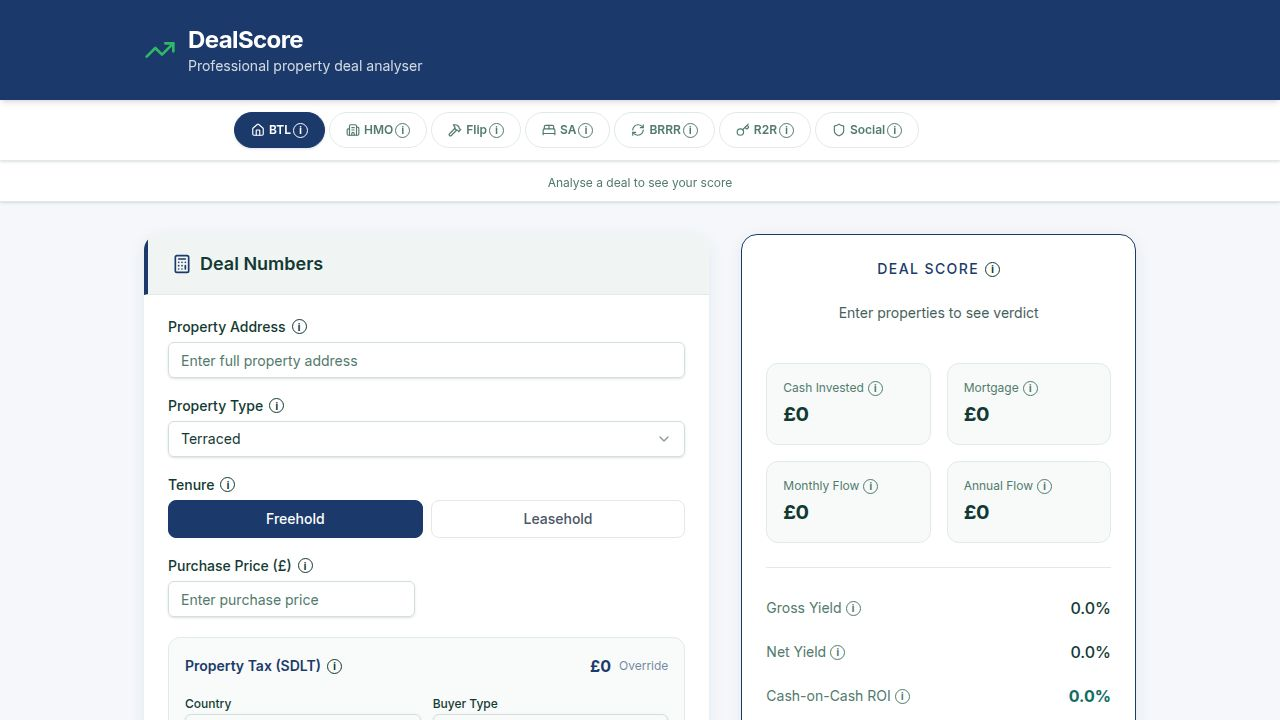
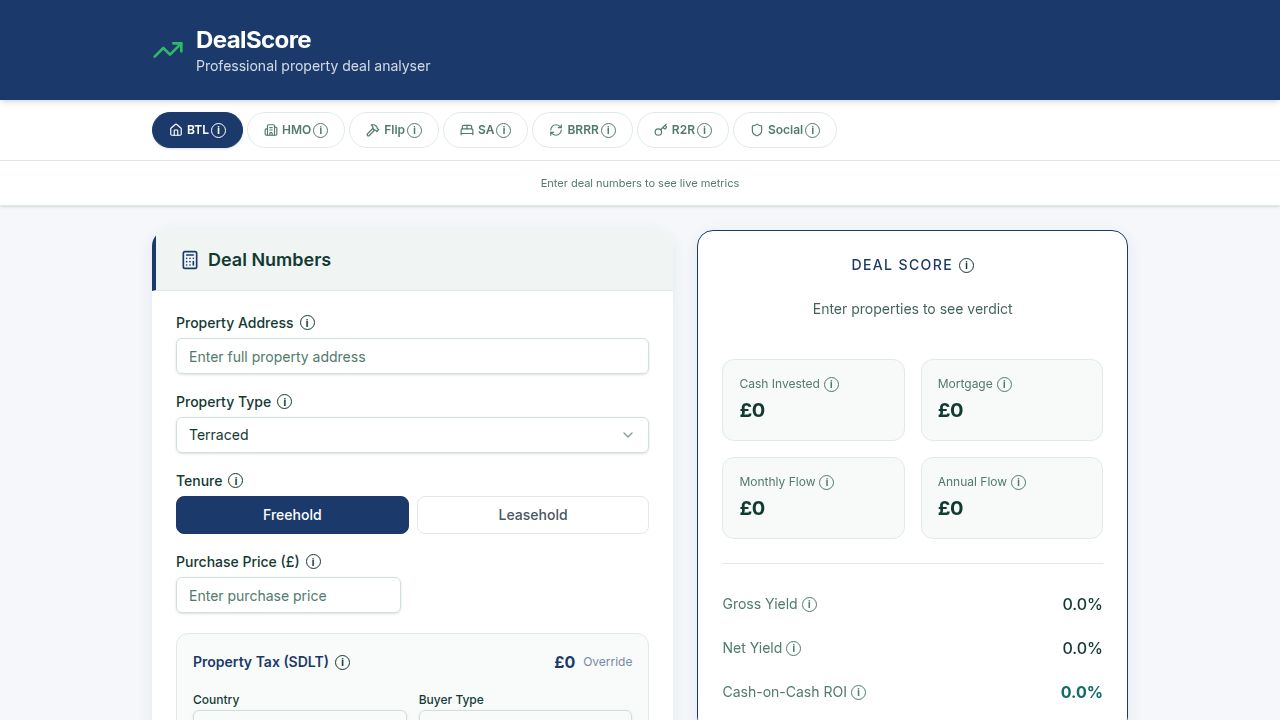
Adjust layout for tab and metrics bars to fill available width
Modify className properties in Home.tsx for the pill tabs and metrics bar inner wrapper divs to ensure they occupy the full width and center content appropriately.

Replit-Commit-Author: Agent
Replit-Commit-Session-Id: 07eb4f57-0109-45bf-abc2-3cb16822f2dc
Replit-Commit-Checkpoint-Type: full_checkpoint
Replit-Commit-Event-Id: faa69378-cbcf-4b2b-a00b-f42b34779d35
Replit-Commit-Screenshot-Url: https://storage.googleapis.com/screenshot-production-us-central1/ffb0b4af-5fdc-48ae-a1be-9af833bfcb9d/07eb4f57-0109-45bf-abc2-3cb16822f2dc/uvK863s
Replit-Helium-Checkpoint-Created: true

diff --git a/artifacts/dealscore/src/pages/Home.tsx b/artifacts/dealscore/src/pages/Home.tsx
@@ -1124,7 +1124,7 @@ export default function HomePage() {
 
       <div className="sticky top-[100px] z-40">
       <div className="bg-white border-b border-border shadow-sm">
-        <div className="max-w-[1024px] mx-auto px-4 sm:px-6 py-2 flex items-start">
+        <div className="max-w-[1024px] mx-auto px-6 py-2 flex items-center w-full">
           <Tabs value={dealType} onValueChange={(v) => setDealType(v as DealType)} className="w-full">
             <TabsList className="flex flex-row gap-1 h-11 bg-transparent border-0 shadow-none p-0 overflow-x-auto scrollbar-hide w-full justify-start">
               <TabsTrigger value="BTL" title="Buy-to-Let" className="flex-shrink-0 rounded-full px-4 h-9 text-xs font-semibold text-muted-foreground whitespace-nowrap border border-border data-[state=active]:text-white data-[state=active]:border-[#1B3A6B] data-[state=active]:shadow-sm transition-all data-[state=active]:bg-[#1B3A6B]">
@@ -1155,7 +1155,7 @@ export default function HomePage() {
 
       {/* Sticky Deal Score Bar */}
       <div className="bg-white border-b border-border shadow-sm w-full">
-        <div className="max-w-[1024px] mx-auto px-4 sm:px-6 flex items-center min-h-[44px]">
+        <div className="max-w-[1024px] mx-auto px-6 flex items-center min-h-[44px] w-full">
           {hasAnalysed ? (
             <div className="flex items-center gap-4 w-full overflow-x-auto scrollbar-hide">
 
